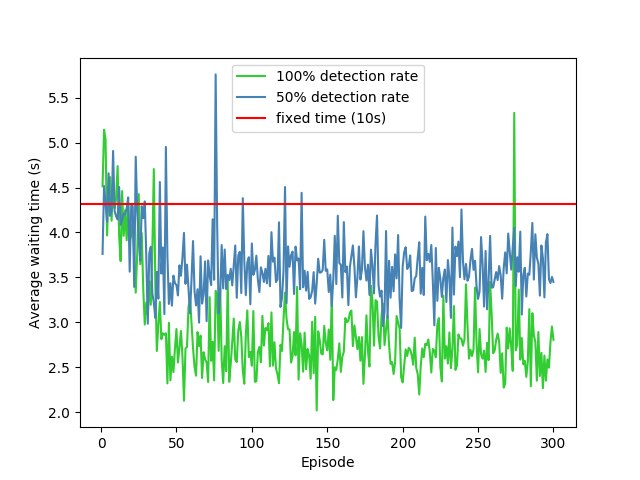
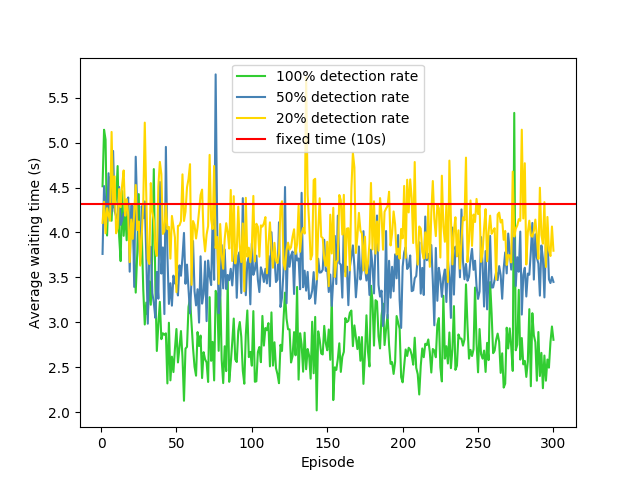
Back to non parallel simulation + results for medium uniform traffic with 20% detection rate

Changed region(s): [[0.1562, 0.1875, 0.875, 0.5938]]

diff --git a/simulator.py b/simulator.py
@@ -43,10 +43,6 @@ class Simulator:
         self.laneIDs = ["in_west_0", "in_north_0", "in_east_0", "in_south_0"]
         self.sumoBinary = None
         self.episodeEnd = 0  # 1 if last step of an episode, 0 otherwise
-        self.conn = None
-        self.job_id = "0"
-        if "SLURM_JOB_ID" in os.environ:
-            self.job_id = os.environ["SLURM_JOB_ID"]
 
         # State variables
         self.detectedCarCnt = None
@@ -74,22 +70,10 @@ class Simulator:
         else:
             self.sumoBinary = checkBinary("sumo")
 
-        with open("sumo_sim/simple_intersection.sumocfg", "w") as config:
-            print("""<configuration>
-    <input>
-        <net-file value="simple_intersection.net.xml"/>
-        <route-files value="simple_intersection_""" + self.job_id + """.rou.xml"/>
-    </input>
-    <time>
-        <begin value="0"/>
-        <end value="3000"/>
-    </time>
-</configuration>""", file=config)
-
         self.init_new_episode()
 
-        self.defaultDistances = [-self.conn.lane.getLength(x) for x in self.laneIDs]
-        veh_ids = [self.conn.lane.getLastStepVehicleIDs(x) for x in self.laneIDs]
+        self.defaultDistances = [-traci.lane.getLength(x) for x in self.laneIDs]
+        veh_ids = [traci.lane.getLastStepVehicleIDs(x) for x in self.laneIDs]
         self.update_state(veh_ids)
 
     # Initializes a new episode
@@ -98,21 +82,14 @@ class Simulator:
         self.generate_traffic()
 
         # Starting sumo as a subprocess
-        episode_id = str(self.episodeCnt)
-        while True:
-            try:
-                traci.start([self.sumoBinary, "-c", "sumo_sim/simple_intersection.sumocfg", "--tripinfo-output",
-                             "tripinfo_" + self.job_id + ".xml"], label=episode_id)
-                break
-            except traci.exceptions.TraCIException:
-                episode_id += 1
-        self.conn = traci.getConnection(episode_id)
+        traci.start(
+            [self.sumoBinary, "-c", "sumo_sim/simple_intersection.sumocfg", "--tripinfo-output", "tripinfo.xml"])
 
     # Randomly generates the route file that determines the traffic in the simulation
     def generate_traffic(self):
         random.seed()
 
-        with open("sumo_sim/simple_intersection_" + self.job_id + ".rou.xml", "w") as routes:
+        with open("sumo_sim/simple_intersection.rou.xml", "w") as routes:
             print("""<routes>
     <vType id="car" accel="2.6" decel="4.5" sigma="0.5" maxSpeed="55.55" length="4.5"/>
 
@@ -152,8 +129,8 @@ class Simulator:
         self.episodeEnd = 0
 
         # Episode stops when all raw files have been exhausted (no vehicles left in the simulation)
-        if self.conn.simulation.getMinExpectedNumber() <= 0:
-            self.conn.close()
+        if traci.simulation.getMinExpectedNumber() <= 0:
+            traci.close()
             print("EPISODE", self.episodeCnt, "DONE")
             average_reward = statistics.mean(self.rewards)
             print("Average reward:", average_reward)
@@ -168,15 +145,13 @@ class Simulator:
 
             if self.N:
                 if self.episodeCnt < self.N:
-                    self.conn.close()
                     self.episodeCnt += 1
                     self.init_new_episode()
                     self.episodeEnd = 1
                 else:
-                    self.close_simulation()
+                    print("END OF SIMULATION")
                     return False
             else:
-                self.conn.close()
                 self.episodeCnt += 1
                 self.init_new_episode()
                 self.episodeEnd = 1
@@ -195,9 +170,9 @@ class Simulator:
         if action == 1 and self.currPhaseTime > 10:
             self.next_phase()
 
-        self.conn.simulationStep()
+        traci.simulationStep()
         self.currNbIterations += 1
-        veh_ids = [self.conn.lane.getLastStepVehicleIDs(x) for x in self.laneIDs]
+        veh_ids = [traci.lane.getLastStepVehicleIDs(x) for x in self.laneIDs]
         self.update_state(veh_ids)
         self.update_reward(veh_ids)
         self.increment_waiting_time(veh_ids)
@@ -205,47 +180,49 @@ class Simulator:
         return True
 
     # Switches traffic light to the next phase
-    def next_phase(self):
-        self.conn.trafficlight.setPhase("center", (self.conn.trafficlight.getPhase("center") + 1) % 4)
+    @staticmethod
+    def next_phase():
+        traci.trafficlight.setPhase("center", (traci.trafficlight.getPhase("center") + 1) % 4)
 
     # Updates the state values
     def update_state(self, veh_ids):
         self.detectedCarCnt = self.count_detected_veh(veh_ids)
         self.distanceNearestDetectedVeh = [-x / y for x, y in zip(self.get_distances(veh_ids), self.defaultDistances)]
-        if self.conn.trafficlight.getPhase("center") == 0:
+        if traci.trafficlight.getPhase("center") == 0:
             self.detectedCarCnt[1] = -self.detectedCarCnt[1]
             self.detectedCarCnt[3] = -self.detectedCarCnt[3]
             self.distanceNearestDetectedVeh[1] = -self.distanceNearestDetectedVeh[1]
             self.distanceNearestDetectedVeh[3] = -self.distanceNearestDetectedVeh[3]
-        elif self.conn.trafficlight.getPhase("center") == 2:
+        elif traci.trafficlight.getPhase("center") == 2:
             self.detectedCarCnt[0] = -self.detectedCarCnt[0]
             self.detectedCarCnt[2] = -self.detectedCarCnt[2]
             self.distanceNearestDetectedVeh[0] = -self.distanceNearestDetectedVeh[0]
             self.distanceNearestDetectedVeh[2] = -self.distanceNearestDetectedVeh[2]
 
-        self.currPhaseTime = (self.conn.simulation.getTime() + self.conn.trafficlight.getPhaseDuration(
-            "center") - self.conn.trafficlight.getNextSwitch("center"))
-        self.normCurrPhaseTime = self.currPhaseTime / self.conn.trafficlight.getPhaseDuration("center")
-        self.amberPhase = 1 if self.conn.trafficlight.getPhase("center") == 1 or self.conn.trafficlight.getPhase(
+        self.currPhaseTime = (traci.simulation.getTime() + traci.trafficlight.getPhaseDuration(
+            "center") - traci.trafficlight.getNextSwitch("center"))
+        self.normCurrPhaseTime = self.currPhaseTime / traci.trafficlight.getPhaseDuration("center")
+        self.amberPhase = 1 if traci.trafficlight.getPhase("center") == 1 or traci.trafficlight.getPhase(
             "center") == 3 else 0
-        self.currDayTime = (self.conn.simulation.getTime() / 3600 + self.hourOfTheDay) / 24
+        self.currDayTime = (traci.simulation.getTime() / 3600 + self.hourOfTheDay) / 24
 
     # Updates the reward
     def update_reward(self, veh_ids):
         rewards = []
         for i in range(len(self.laneIDs)):
-            v_max_lane = self.conn.lane.getMaxSpeed(self.laneIDs[i])
+            v_max_lane = traci.lane.getMaxSpeed(self.laneIDs[i])
             for x in veh_ids[i]:
-                v_max = min(v_max_lane, self.conn.vehicle.getMaxSpeed(x))
-                rewards.append((self.conn.vehicle.getSpeed(x) - v_max) / v_max)
+                v_max = min(v_max_lane, traci.vehicle.getMaxSpeed(x))
+                rewards.append((traci.vehicle.getSpeed(x) - v_max) / v_max)
         self.reward = statistics.mean(rewards) if rewards else 0
 
     # Returns the number of detected cars in each lane, given a list of ids of all cars for each lane
-    def count_detected_veh(self, ids):
+    @staticmethod
+    def count_detected_veh(ids):
         cnt = [0] * len(ids)
         for i in range(len(ids)):
             for x in ids[i]:
-                if self.conn.vehicle.getColor(x) == (0, 255, 0, 255):
+                if traci.vehicle.getColor(x) == (0, 255, 0, 255):
                     cnt[i] -= 1
         return cnt
 
@@ -254,8 +231,8 @@ class Simulator:
     def get_distances(self, veh_ids):
         distances = self.defaultDistances.copy()
         for i in range(len(veh_ids)):
-            detected_positions = [self.conn.vehicle.getLanePosition(x) for x in veh_ids[i] if
-                                  self.conn.vehicle.getColor(x) == (0, 255, 0, 255)]
+            detected_positions = [traci.vehicle.getLanePosition(x) for x in veh_ids[i] if
+                                  traci.vehicle.getColor(x) == (0, 255, 0, 255)]
             if detected_positions:
                 distances[i] = distances[i] + max(detected_positions)
         return distances
@@ -280,7 +257,7 @@ class Simulator:
         cnt = 0
         for i in range(len(ids)):
             for x in ids[i]:
-                if self.conn.vehicle.getSpeed(x) < 0.1:
+                if traci.vehicle.getSpeed(x) < 0.1:
                     cnt += 1
         self.cumWaitingTime += cnt
 
@@ -306,6 +283,7 @@ class Simulator:
         plt.ylabel("Average waiting time (s)")
         plt.savefig(os.path.join("figures", "out_" + fig_name + "_w.png"))
 
-    def close_simulation(self):
-        self.conn.close()
+    @staticmethod
+    def close_simulation():
+        traci.close()
         print("END OF SIMULATION")

diff --git a/plot.py b/plot.py
@@ -2,37 +2,45 @@ import matplotlib.pyplot as plt
 import pickle
 
 if __name__ == "__main__":
-    with open("data/model_100_high" + "_episodes.txt", "rb") as file:
+    with open("data/model_100_medium" + "_episodes.txt", "rb") as file:
         episodes = pickle.load(file)
-    with open("data/uniform1over30" + "_baseline_r.txt", "rb") as file:
+    with open("data/uniform1over45" + "_baseline_r.txt", "rb") as file:
         baseline_r = pickle.load(file)
-    with open("data/uniform1over30" + "_baseline_w.txt", "rb") as file:
+    with open("data/uniform1over45" + "_baseline_w.txt", "rb") as file:
         baseline_w = pickle.load(file)
-    with open("data/model_100_high" + "_rewards.txt", "rb") as file:
+    with open("data/model_100_medium" + "_rewards.txt", "rb") as file:
         rewards1 = pickle.load(file)
-    with open("data/model_50_high" + "_rewards.txt", "rb") as file:
+    with open("data/model_50_medium" + "_rewards.txt", "rb") as file:
         rewards2 = pickle.load(file)
-    with open("data/model_100_high" + "_waiting_times.txt", "rb") as file:
+    with open("data/model_20_medium" + "_rewards.txt", "rb") as file:
+        rewards3 = pickle.load(file)
+    with open("data/model_100_medium" + "_waiting_times.txt", "rb") as file:
         waiting_times1 = pickle.load(file)
-    with open("data/model_50_high" + "_waiting_times.txt", "rb") as file:
+    with open("data/model_50_medium" + "_waiting_times.txt", "rb") as file:
         waiting_times2 = pickle.load(file)
+    with open("data/model_20_medium" + "_waiting_times.txt", "rb") as file:
+        waiting_times3 = pickle.load(file)
 
     plt.figure()
     plt.plot(episodes, rewards1, color="limegreen", label="100% detection rate")
     plt.plot(episodes, rewards2, color="steelblue", label="50% detection rate")
+    plt.plot(episodes, rewards3, color="gold", label="20% detection rate")
     plt.axhline(y=baseline_r, color="r", label="fixed time (10s)")
+    # plt.ylim(bottom=8.0)
     plt.xlabel("Episode")
     plt.ylabel("Average reward")
     plt.legend()
-    plt.savefig("figures/high_uni_r.png")
+    plt.savefig("figures/medium_uni_r.png")
     plt.show()
 
     plt.figure()
     plt.plot(episodes, waiting_times1, color="limegreen", label="100% detection rate")
     plt.plot(episodes, waiting_times2, color="steelblue", label="50% detection rate")
+    plt.plot(episodes, waiting_times3, color="gold", label="20% detection rate")
     plt.axhline(y=baseline_w, color="r", label="fixed time (10s)")
+    # plt.ylim(top=8.0)
     plt.xlabel("Episode")
     plt.ylabel("Average waiting time (s)")
     plt.legend()
-    plt.savefig("figures/high_uni_w.png")
+    plt.savefig("figures/medium_uni_w.png")
     plt.show()

diff --git a/run.py b/run.py
@@ -35,7 +35,7 @@ if __name__ == "__main__":
     nb_actions = 2  # Either stay at current phase or switch to the next one
     nb_episodes = 300
     nb_episode_steps = 3000
-    detection_rate = 0.2  # Percentage of vehicles that can be detected by the algorithm
+    detection_rate = 1.0  # Percentage of vehicles that can be detected by the algorithm
     gui = False
     alpha = 0.0001
     gamma = 0.9
@@ -46,10 +46,10 @@ if __name__ == "__main__":
     target_update_frequency = 3000
     hour_of_the_day = 8
     # Probability for a car to be generated on a particular route at a certain step
-    route_probabilities = [1. / 60] * 12
-    file_name = "model_20_low.pt"
-    stats_file_name = "model_20_low"
-    figure_name = "model_20_low"
+    route_probabilities = [1. / 45] * 3 + [1. / 60] * 3 + [1. / 45] * 3 + [1. / 60] * 3
+    file_name = "model_45_60_100.pt"
+    stats_file_name = "model_45_60_100"
+    figure_name = "model_45_60_100"
 
     # Initializing the simulator, agent and replay buffer
     agent = Agent(alpha, gamma, epsilon, epsilon_end, decay_steps, batch_size, nb_inputs, nb_actions, mem_size,
